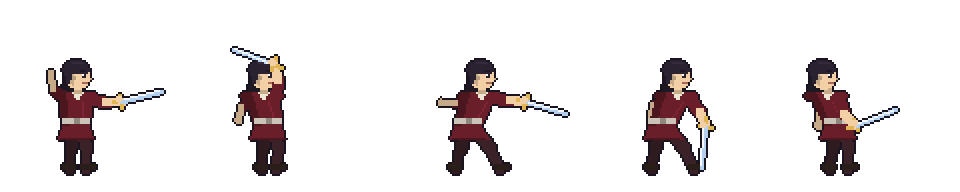
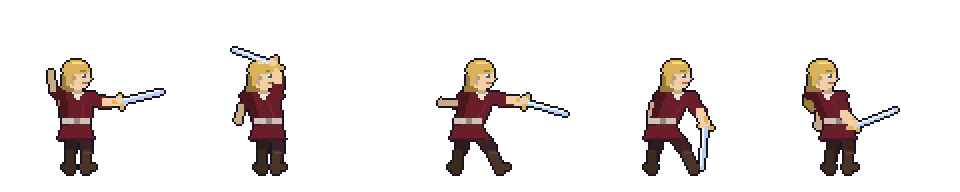
Jun and Valen: swordmaster wristguards and lapels, new hair, boots
- Swordmasters get wristguards, a shoulder plate and lapels; no headband or
  gold band on the head
- Jun keeps a bun, set further back
- Valen has long blonde hair and tall boots

Claude-Session: https://claude.ai/code/session_01U4Tdmi4d75jwBVR3wHrYsm

diff --git a/js/09b-battle-rig.js b/js/09b-battle-rig.js
@@ -145,6 +145,7 @@ function hiArt(L,cls,team,wk,name,i,W){
   if(L.tails){const fl=P.flap?2:0;limb([hx-5,hy-2],[hx-13,hy+5+fl],L.tails,2);limb([hx-13,hy+5+fl],[hx-15,hy+11],L.tails,2);limb([hx-5,hy-1],[hx-10,hy+11-fl],shade(L.tails,.8),1)}
   if(L.cape||t2){const cc=L.capeC||TC.A,cc2=shade(cc,.8);p.poly([[nx-8,ny+1],[nx+1,ny+1],[hx-2,seat?hy+4:hy+14],[hx-12+P.bx*-.3,seat?hy+6:hy+19],[nx-12,ny+12]],cc);p.line(nx-6,ny+3,hx-9,seat?hy+5:hy+17,cc2)}
   if(L.gear!=='helm'&&L.gear!=='hood'&&L.gear!=='veil'){
+    if(L.style==='mane')p.poly([[head[0]-7,head[1]-4],[head[0]-1,head[1]-4],[head[0]-1,head[1]+15],[head[0]-6,head[1]+18],[head[0]-10,head[1]+14]],hair2);
     if(L.style==='long')p.poly([[head[0]-7,head[1]-3],[head[0]-2,head[1]-3],[head[0]-2,head[1]+10],[head[0]-8,head[1]+12]],hair2);
     if(L.style==='tail'){limb([head[0]-5,head[1]-4],[head[0]-10,head[1]+2],hair2,3);limb([head[0]-10,head[1]+2],[head[0]-10,head[1]+9],hair2,2)}}
   /* ---- legs ---- */
@@ -156,12 +157,14 @@ function hiArt(L,cls,team,wk,name,i,W){
   else{const bf=[hx-P.spread+P.bx*.3,FT],ff=[hx+P.spread+P.step,FT],bk=[(hx+bf[0])/2-2,hy+11],fk=[(hx+ff[0])/2+2,hy+11],bt=body==='armor'?MT2:boot;
     limb([hx-2,hy],bk,shade(pants,.8),5);limb(bk,bf,shade(pants,.8),4);p.rect(Math.round(bf[0])-3,FT-2,7,3,bt);
     limb([hx+1,hy],fk,pants,5);limb(fk,ff,pants,4);p.rect(Math.round(ff[0])-2,FT-2,8,3,bt);
+    if(L.boots){const mid=(k,f)=>[k[0]+(f[0]-k[0])*.3,k[1]+(f[1]-k[1])*.3];limb(mid(bk,bf),bf,shade(L.boots,.8),4);limb(mid(fk,ff),ff,L.boots,4);p.rect(Math.round(bf[0])-3,FT-2,7,3,shade(L.boots,.8));p.rect(Math.round(ff[0])-2,FT-2,8,3,L.boots);p.line(...mid(fk,ff).map(Math.round),Math.round(mid(fk,ff)[0])+3,Math.round(mid(fk,ff)[1]),shade(L.boots,1.3))}
     if(body==='armor'){limb(fk,[fk[0]+1,fk[1]+8],MT,3);p.ell(fk[0],fk[1],2.4,2,MT)}}
   /* ---- back arm (behind the torso), with a shield or a second weapon ---- */
   const onShoulder=name==='idle'&&L.stance==='shoulder';
   if(onShoulder){const s0=[nx+5,ny+3],e0=pt(...s0,P.arm,9),h0=pt(...e0,P.fore,8);drawHiWeapon(p,kind,w,c,h0,P.wpn,P,null,pt,limb,L)}
   const sb=[nx-5,ny+3],eb=pt(...sb,P.back,8),hb=pt(...eb,P.backFore,7),sleeve=body==='vest'?sk2:body==='armor'?MT2:cl2;
   limb(sb,eb,sleeve,4);limb(eb,hb,body==='armor'?MT2:sk2,3);p.ell(hb[0],hb[1],2,2,sk2);
+  if(L.bracers)limb(pt(...eb,P.backFore,2),pt(...eb,P.backFore,6),shade(L.bracers,.75),3);
   if(kind==='twin'||kind==='twindagger'){const a=P.backFore-30;limb(hb,pt(...hb,a,kind==='twin'?14:L.jag?13:8),c.blade,2);if(L.jag)for(let k=4;k<12;k+=3)p.set(...pt(...pt(...hb,a,k),a+90,2),c.blade);limb(pt(...hb,a+90,2),pt(...hb,a-90,2),c.hilt,1)}
   /* ---- torso ---- */
   const sh=fem?8:9;
@@ -178,6 +181,7 @@ function hiArt(L,cls,team,wk,name,i,W){
   if(L.apron){p.rect(hx-5,ny+7,10,hy-ny+3,'#e8e2d0');p.rect(hx-5,ny+7,10,1,'#c9c3b8')}
   /* shawl: a drape over both shoulders that dips to a point at the front; collar: a broad striped neck-piece */
   if(L.shawl){const s2=shade(L.shawl,.8);p.poly([[nx-sh-1,ny],[nx+sh+1,ny],[nx+sh,ny+4],[nx+2,ny+8],[nx-sh,ny+5]],L.shawl);p.line(nx-sh,ny+5,nx+2,ny+8,s2);p.line(nx+2,ny+8,nx+sh,ny+4,s2)}
+  if(L.lapels){const l2=shade(L.lapels,.75);p.poly([[nx-3,ny+1],[nx+1,ny+1],[nx-1,ny+7]],L.lapels);p.poly([[nx+1,ny+1],[nx+6,ny+1],[nx+2,ny+7]],L.lapels);p.line(nx+1,ny+1,nx+1,ny+6,l2);p.line(nx-3,ny+1,nx-1,ny+7,l2)}
   if(L.collar){for(let k=0;k<3;k++)p.line(nx-sh+k,ny+1+k*2,nx+sh-k,ny+1+k*2,k%2?L.collar:GOLD,2)}
   p.rect(hx-7,hy-3,14,3,body==='armor'?BROWN2:sash);p.rect(hx-1,hy-3,3,3,t2?GOLD:shade(sash,.7));
   /* ---- shield on the back arm, in front of the body ---- */
@@ -201,6 +205,8 @@ function hiArt(L,cls,team,wk,name,i,W){
   if(bare&&L.style!=='bald'){p.ell(cx-1,cy-3,6.8,5,hair,(x,y)=>y<=cy-2||x<cx-3);p.poly([[cx+1,cy-5],[cx+6,cy-4],[cx+5,cy-2],[cx+2,cy-3]],hair);p.line(cx-3,cy-7,cx+2,cy-7,hair3);
     if(L.style==='topknot'){p.ell(cx-1,cy-9,2.6,2.4,hair);p.rect(cx-2,cy-8,3,1,GOLD)}
     if(L.style==='bun')p.ell(cx-5,cy-6,2.8,2.6,hair);
+    if(L.style==='bunback'){p.ell(cx-8,cy-4,2.8,2.6,hair);p.set(cx-8,cy-5,hair3)}
+    if(L.style==='mane')p.rect(cx-6,cy-2,2,7,hair);
     if(L.style==='tail')p.ell(cx-6,cy-4,2,2,hair);
     if(L.style==='wild'){p.poly([[cx-6,cy-4],[cx-10,cy-9],[cx-3,cy-6]],hair);p.poly([[cx-2,cy-7],[cx,cy-12],[cx+2,cy-7]],hair);p.poly([[cx+2,cy-6],[cx+6,cy-9],[cx+4,cy-4]],hair)}
     if(L.style==='long'||fem)p.rect(cx-6,cy-2,2,6,hair)}
@@ -224,10 +230,11 @@ function hiArt(L,cls,team,wk,name,i,W){
   if(g==='nursecap'){p.poly([[cx-5,cy-5],[cx+4,cy-5],[cx+3,cy-10],[cx-4,cy-10]],'#f4f2ea');p.line(cx-5,cy-6,cx+4,cy-6,'#5a8a5a');p.rect(cx-1,cy-9,2,2,'#5a8a5a')}
   if(g==='cap'){const cc=shade(cl,.8);p.ell(cx,cy-4,7,4,cc,(x,y)=>y<=cy-3);p.rect(cx-6,cy-3,15,2,shade(cc,.8));limb([cx-2,cy-7],[cx-10,cy-13],CREAM,1);limb([cx-3,cy-7],[cx-11,cy-12],'#d8d0bc',1);p.set(cx-10,cy-13,RED)}
   if(g==='douli'){p.poly([[cx-12,cy-2],[cx+12,cy-2],[cx,cy-12]],'#c9a46a');limb([cx-8,cy-3],[cx,cy-11],'#a8844c',1);limb([cx+8,cy-3],[cx,cy-11],'#a8844c',1);p.rect(cx-11,cy-2,22,1,'#8a6a3c')}
-  if(t2&&g!=='helm'&&g!=='douli'){p.rect(cx-3,cy-8,6,1,GOLD);p.set(cx,cy-9,'#9fd8ff')}
+  if(t2&&!L.noCrown&&g!=='helm'&&g!=='douli'){p.rect(cx-3,cy-8,6,1,GOLD);p.set(cx,cy-9,'#9fd8ff')}
   /* ---- weapon arm and weapon ---- */
   const sf=[nx+5,ny+3],ef=pt(...sf,P.arm,9),hf=pt(...ef,P.fore,8),a=P.wpn;
   limb(sf,ef,body==='vest'?sk:body==='armor'?MT:cl,5);limb(ef,hf,body==='armor'?MT2:sk,4);
+  if(L.bracers){limb(pt(...ef,P.fore,2),pt(...ef,P.fore,7),L.bracers,4);p.ell(sf[0],sf[1],3.6,2.8,L.bracers);p.line(sf[0]-3,sf[1]+1,sf[0]+3,sf[1]+1,shade(L.bracers,.7))}
   if(L.tattoo&&body==='vest'){const m=pt(...sf,P.arm,5);p.line(Math.round(m[0])-1,Math.round(m[1]),Math.round(m[0])+2,Math.round(m[1])+1,L.tattoo);p.set(Math.round(ef[0]),Math.round(ef[1])+2,L.tattoo)}
   if(L.scar){p.line(nx+4,ny,nx+9,ny+5,'#c97a6a');p.set(nx+6,ny+1,'#e8a090')}
   if(L.wraps)limb(pt(...ef,P.fore,4),hf,L.wraps,4);

diff --git a/js/14b-cast.js b/js/14b-cast.js
@@ -4,7 +4,8 @@
    tattoo, scar, wraps (hand wraps), mask, voidFace, mist (dark mist round the hand), hand (casts from the open hand), el (spell glow colour),
    staff/orb (staff colours), nature (branch staff), jag (jagged daggers), dblAxe (two-headed axe), joust + lanceC (jousting lance),
    barding (horse armour), bolt / hem (robe trims), tails (sash ribbons), stance (idle: shoulder/low/guard/draw/high),
-   shield (round/kite/tower/aegis), gear also takes 'nursecap', prop ('lyre': held instead of a weapon).
+   bracers (wristguards + shoulder plate), lapels, boots (tall boots), noCrown (no gold band when ascended),
+   style also takes 'mane' (longer hair) and 'bunback', shield (round/kite/tower/aegis), gear also takes 'nursecap', prop ('lyre': held instead of a weapon).
    Preview them all: node tools/export-cast.mjs (writes docs/visuals/cast/). */
 
 /* ---- the cast's classes ----
@@ -69,8 +70,8 @@ const CAST=[
          'Artillery':{look:{metal:'#9aa8c0',capeC:'#2a3a5a',beard:true}}}},
   {id:'sigrun',name:'Sigrun',cls:'Drake Rider',wk:'ironSpear',joins:'run',look:{body:'tunic',fem:true,style:'tail',hair:'#4a3a30',skin:'#f6dcc4',cloth:'#2a2630',pants:'#3a2430',sash:'#c8322e',shawl:'#a8322e',cape:true,capeC:'#6a2a5a',mount:'wyvern',horse:'#4f8a4a',eye:'#5a4a7a'}},
   {id:'kaya',name:'Kaya',cls:'Horse Archer',wk:'shortBow',joins:'run',look:{fem:true,style:'long',hair:'#d8c8ec',skin:'#e8b98f',cloth:'#8a6a4a',pants:'#5a4a32',sash:'#8a5a9a',horse:'#8a8f9a',eye:'#5a4a7a'}},
-  {id:'jun',name:'Jun',cls:'Swordsman',wk:'ironJian',joins:'run',look:{body:'robe',style:'topknot',hair:'#1d1a24',skin:'#f3cfa6',cloth:'#2f4f8f',sash:'#efe6cf',stance:'low',eye:'#2a2230'},
-    asc:{'Swordmaster':{wk:'moonDao',look:{capeC:'#1e2f5a',gear:'guan',stance:'draw',tails:'#efe6cf'}}}},
+  {id:'jun',name:'Jun',cls:'Swordsman',wk:'ironJian',joins:'run',look:{body:'robe',style:'topknot',hair:'#1d1a24',skin:'#f3cfa6',cloth:'#2f4f8f',sash:'#efe6cf',stance:'low',style:'bunback',eye:'#2a2230'},
+    asc:{'Swordmaster':{wk:'moonDao',look:{capeC:'#1e2f5a',stance:'draw',tails:'#efe6cf',bracers:'#a8b4c8',lapels:'#efe6cf',noCrown:true}}}},
   {id:'ash',name:'Ash',cls:'Pyromancer',wk:'flameT',joins:'run',look:{style:'short',hair:'#3a2a20',skin:'#e8b98f',cloth:'#a8322a',sash:'#e2b553',collar:'#a8322a',gear:'circlet',hand:true,eye:'#6a3a2a'},
     asc:{'Pyrolord':{look:{capeC:'#5a1a1a',el:'#ffb03c',style:'wild',hair:'#8a2a22',body:'robe',hem:'#ff8a3c'}},
          'Archmage':{wk:'meteorT',look:{capeC:'#3a1a3a',cloth:'#7a2a4a',collar:'#7a2a4a'}}}},
@@ -78,8 +79,8 @@ const CAST=[
   /* ---- join after Act 1, already advanced ---- */
   {id:'nyx',name:'Nyx',cls:'Assassin',wk:'dirk',joins:'act1',look:{fem:true,style:'long',hair:'#1d1a24',skin:'#e8b98f',cloth:'#1e1a22',pants:'#141018',sash:'#5a4a7a',gear:'hood',mask:'#4a4656',capeC:'#1e1a22',jag:true,eye:'#9a6ad8'}},
   {id:'roark',name:'Roark',cls:'Berserker',wk:'reaverAxe',joins:'act1',look:{style:'wild',beard:true,hair:'#9a9aa2',skin:'#e8b98f',cloth:'#6a6a72',pants:'#3a3a40',sash:'#a8322a',capeC:'#8a2a22',scar:true,dblAxe:true,stance:'shoulder',eye:'#6a3a2a'}},
-  {id:'valen',name:'Valen',cls:'Swordsman',wk:'steelJian',joins:'act1',look:{style:'long',hair:'#2a2230',skin:'#f3cfa6',cloth:'#6a1e2a',pants:'#3a2228',sash:'#c9c3b8',stance:'guard',eye:'#2a2230'},
-    asc:{'Swordmaster':{wk:'ironDao',look:{capeC:'#4a1420',gear:'headband',stance:'high',tails:'#c9c3b8'}}}},
+  {id:'valen',name:'Valen',cls:'Swordsman',wk:'steelJian',joins:'act1',look:{style:'mane',hair:'#d9b25a',skin:'#f3cfa6',cloth:'#6a1e2a',pants:'#3a2228',sash:'#c9c3b8',stance:'guard',boots:'#4a3426',eye:'#3a5a8a'},
+    asc:{'Swordmaster':{wk:'ironDao',look:{capeC:'#4a1420',stance:'high',tails:'#c9c3b8',bracers:'#a8b4c8',lapels:'#c9c3b8',noCrown:true}}}},
   {id:'celestine',name:'Celestine',cls:'Paladin',wk:'ironSpear',joins:'act1',look:{fem:true,style:'long',hair:'#d9b25a',skin:'#f6dcc4',cloth:'#3a6ab0',metal:'#e4ecf6',shield:'kite',shieldC:'#3a6ab0',capeC:'#2a4a8a',horse:'#f3f0e8',eye:'#3a5a8a'}},
   {id:'seren',name:'Seren',cls:'Summoner',wk:'runeStaff',joins:'act1',look:{fem:true,style:'long',hair:'#1d1a24',skin:'#f3cfa6',cloth:'#4a8a9a',sash:'#cfe8f0',shawl:'#cfe8f0',capeC:'#2f6a7a',orb:'#9fe8ff',nature:true,eye:'#3a6a7a'}},
   {id:'zwei',name:'Zwei',cls:'Mercenary',wk:'greatsword',joins:'act1',look:{fem:true,style:'bun',hair:'#1d1a24',skin:'#a8714a',cloth:'#efe6cf',pants:'#c9bfa0',sash:'#e2b553',collar:'#2a5aa8',capeC:'#2a5aa8',stance:'shoulder',eye:'#2a2230'}},
